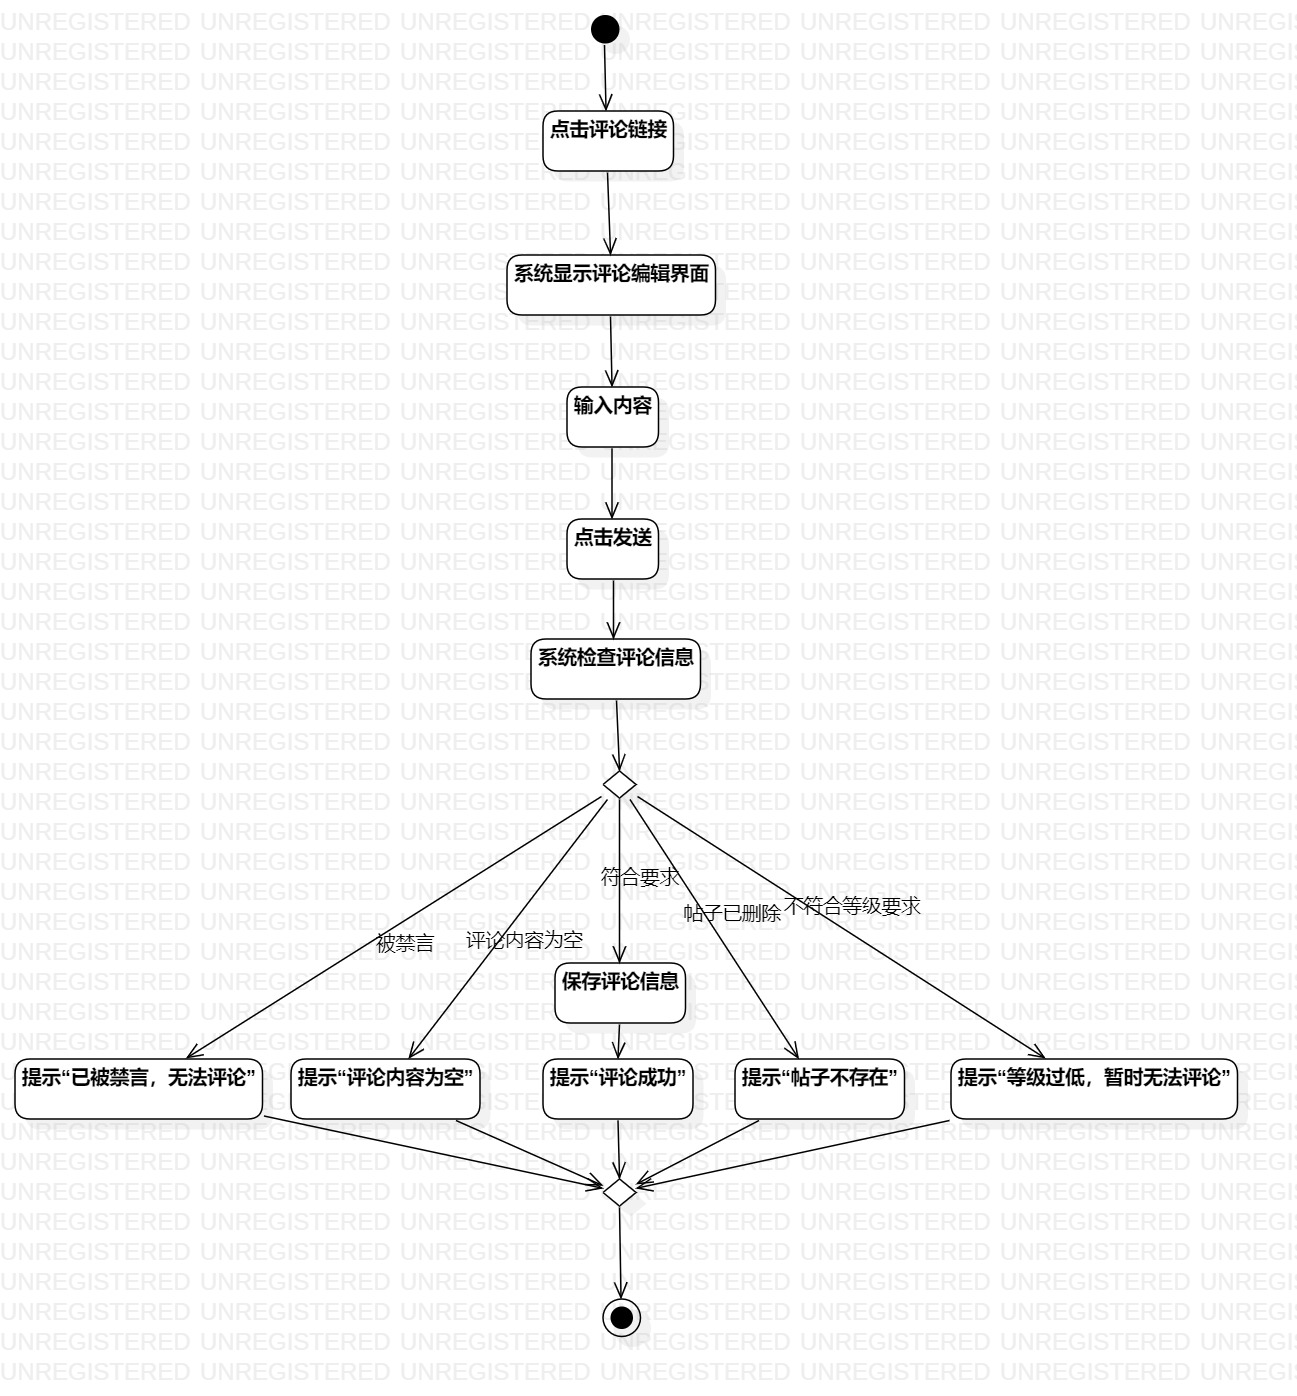
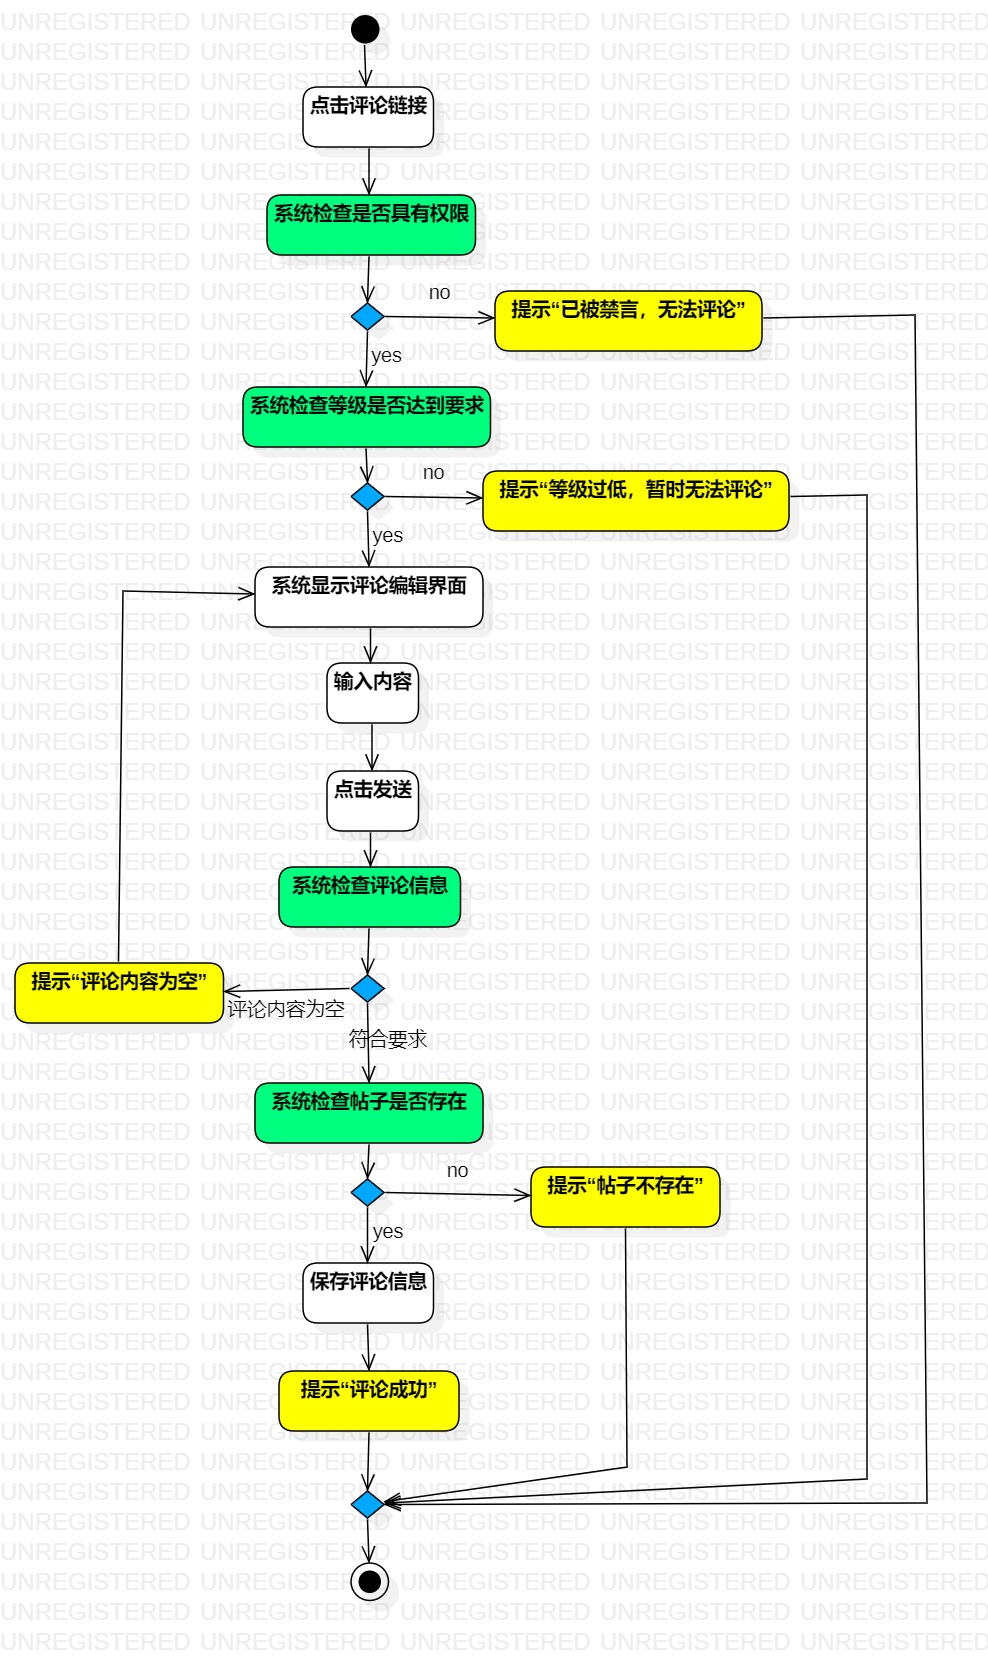
实验四&实验五

Changed region(s): [[0.0, 0.0, 0.9717, 0.9857], [0.8502, 0.8625, 0.8806, 0.8933], [0.4555, 0.0, 0.4858, 0.0308]]

diff --git a/students/1714080902616/lab2.md b/students/1714080902616/lab2.md
@@ -51,12 +51,12 @@
 -|:-|-  
 用例名称  | 评论帖子  |   
 前置条件  | 进入帖子浏览界面    | *可选*   
-后置条件  | 帖子评论成功     | *可选*   
+后置条件  | 帖子浏览界面     | *可选*   
 基本流程  | 1.摄影爱好者点击评论链接  |*用例执行成功的步骤*    
-~| 2.系统显示评论编辑界面  |   
+~| 2.系统检查符合权限和等级要求，显示评论编辑界面  |   
 ~| 3.摄影爱好者输入内容，点击发送   |   
 ~| 4.系统检查评论符合要求，保存评论信息，提示“评论成功”   |   
-扩展流程  | 4.1系统检查发现评论内容为空，提示“评论内容为空”   |*用例执行失败*    
+扩展流程  | 2.1系统检查发现无权限，提示“已被禁言，无法评论”   |*用例执行失败* 
+~| 2.2系统检查发现不符合等级要求，提示“等级过低，暂时无法评论”   |
+~| 4.1系统检查发现评论内容为空，提示“评论内容为空”   |   
 ~| 4.2系统检查发现帖子已被删除，提示“帖子不存在”   |
-~| 4.3系统检查发现不符合等级要求，提示“等级过低，暂时无法评论”   |
-~| 4.4系统检查发现被禁言，提示“已被禁言，无法评论”   |

diff --git a/students/1714080902616/lab4&5.md b/students/1714080902616/lab4&5.md
@@ -9,10 +9,18 @@
 ## 二、实验内容  
 
 ### 1. 学习类建模
-### 2. 根据用例规约找出类对象，并且对类建模；  
+### 2. 根据用例规约找出类对象，并且对类建模；
 
 ## 三、 实验步骤
 
 ## 四、实验结果
+
+![浏览图库类图](./Lab4&5_ClassDiagram1.jpg)
+
+图1：浏览图库类图
+
+![评论帖子类图](./Lab4&5_ClassDiagram2.jpg)
+
+图2：评论帖子类图
 
 ## 五、实验总结
